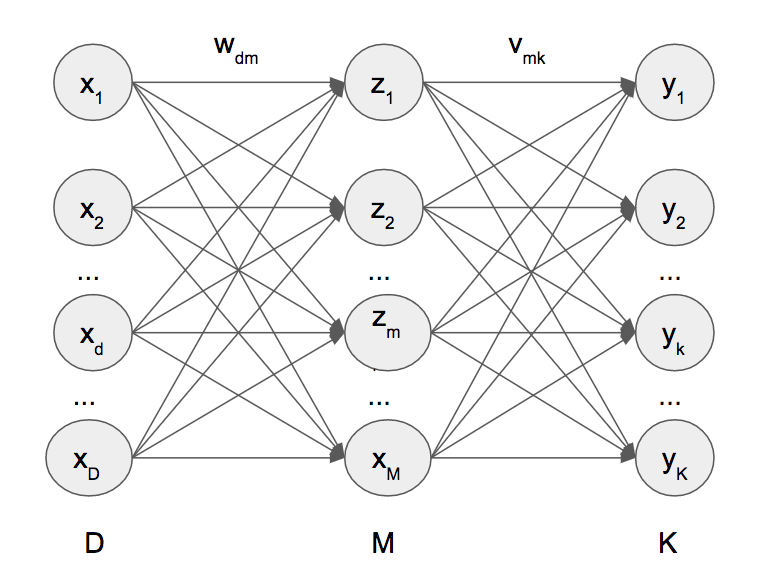
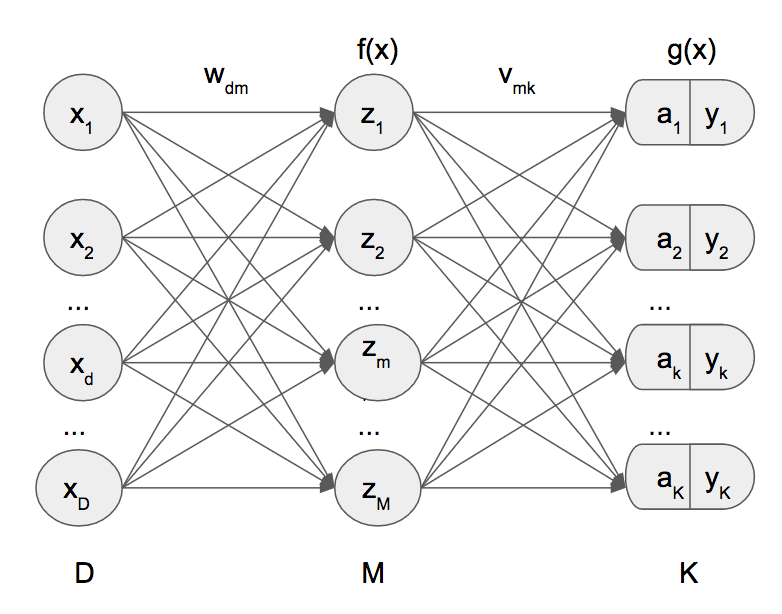
no message

diff --git a/_site/blog/2017/12/27/back-propagation-deep-learning/index.html b/_site/blog/2017/12/27/back-propagation-deep-learning/index.html
@@ -99,15 +99,20 @@ src="https://cdn.mathjax.org/mathjax/latest/MathJax.js?config=TeX-MML-AM_CHTML">
   <p>Demonstration of forward and back propagation on neural networks</p>
 </blockquote>
 
-<p>$D$ number of features from x<br />
+<p>$x$ input for first hidden layer  <br />
+$D$ number of features from x<br />
+$z$ input for hidden layer<br />
 $M$ number of hidden layer of network<br />
 $K$ Number of output classification classes <br />
-$X$ input for first hidden layer<br />
-$Z$ input for last layer<br />
-$Y$ output of last layer<br />
-$T$ trained classification output [0,1]<br />
-$W_{dm}$ Matrix of weights from input to hidden layer $z$<br />
-$V_{mk}$ Matrix of weights from hidden layer to output $y$</p>
+$a$ input of last layer
+$y$ output of last layer<br />
+$t$ trained classification output [0,1]<br />
+$W_{dm}$ Matrix of weights from input to hidden layer $z$
+$b$ Bias of input hidden layer $z$<br />
+$V_{mk}$ Matrix of weights from hidden layer to output $y$<br />
+$c$ Bias of input hidden layer $z$ 
+$f(x)$ is the function of the middle neuron [$sigmoid(x)$, $tanh(x)$, $reLU(x)$]
+$g(x)$ is the function of the last neuron [$sigmoid(x)$, $softmax(x)$, $linear(x)$]</p>
 
 <p><img src="/assets/basic-network.png" alt="basic network example" /></p>
 
